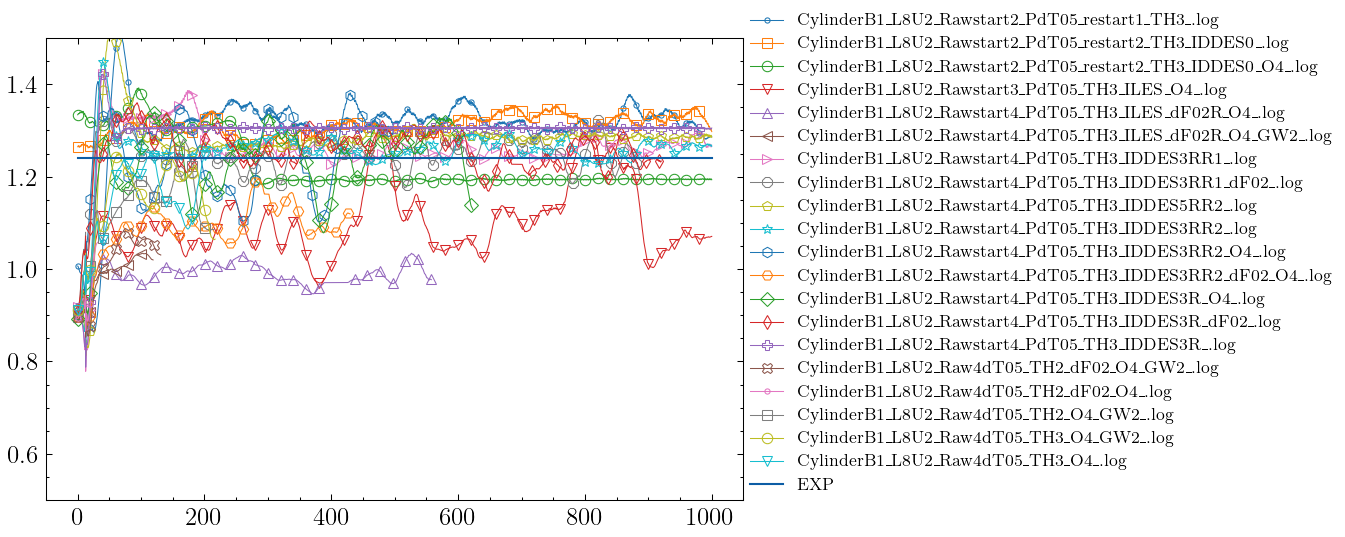
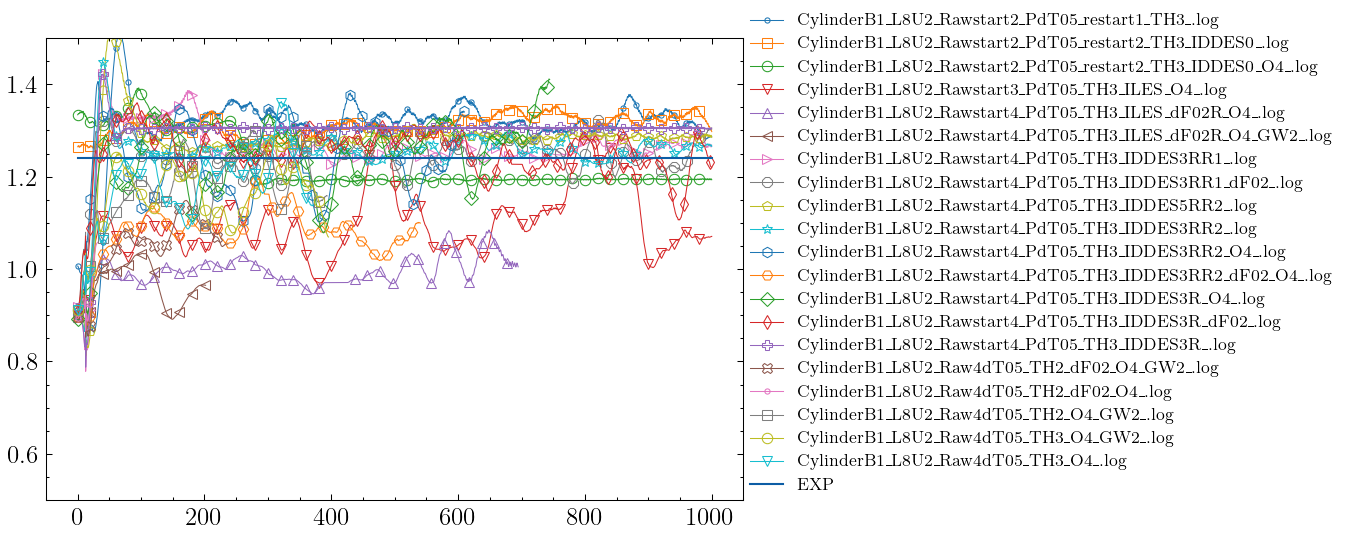
update some DES figs

diff --git a/DNDSR/DESTests/index.md b/DNDSR/DESTests/index.md
@@ -364,22 +364,22 @@ with $C_{dF}=0.2$.
 | CylinderB1_L8U2_Rawstart2_PdT05_restart2_TH3_IDDES0_.log    | 1.3309e+00 | 909.3   | 18000 |
 | CylinderB1_L8U2_Rawstart2_PdT05_restart2_TH3_IDDES0_O4_.log | 1.1945e+00 | -454.6  | 18000 |
 | CylinderB1_L8U2_Rawstart3_PdT05_TH3_ILES_O4_.log            | 1.0525e+00 | -1874.7 | 18000 |
-| CylinderB1_L8U2_Rawstart4_PdT05_TH3_ILES_dF02R_O4_.log      | 9.9719e-01 | -2428.1 | 8415  |
-| CylinderB1_L8U2_Rawstart4_PdT05_TH3_ILES_dF02R_O4_GW2_.log  | 1.0066e+00 | -2334.1 | 378   |
+| CylinderB1_L8U2_Rawstart4_PdT05_TH3_ILES_dF02R_O4_.log      | 1.0250e+00 | -2149.7 | 11155 |
+| CylinderB1_L8U2_Rawstart4_PdT05_TH3_ILES_dF02R_O4_GW2_.log  | 9.5064e-01 | -2893.6 | 2036  |
 | CylinderB1_L8U2_Rawstart4_PdT05_TH3_IDDES3RR1_.log          | 1.2726e+00 | 326.0   | 18000 |
-| CylinderB1_L8U2_Rawstart4_PdT05_TH3_IDDES3RR1_dF02_.log     | 1.2547e+00 | 147.3   | 15350 |
+| CylinderB1_L8U2_Rawstart4_PdT05_TH3_IDDES3RR1_dF02_.log     | 1.2477e+00 | 77.4    | 17586 |
 | CylinderB1_L8U2_Rawstart4_PdT05_TH3_IDDES5RR2_.log          | 1.2855e+00 | 455.0   | 18000 |
 | CylinderB1_L8U2_Rawstart4_PdT05_TH3_IDDES3RR2_.log          | 1.2654e+00 | 253.9   | 18000 |
-| CylinderB1_L8U2_Rawstart4_PdT05_TH3_IDDES3RR2_O4_.log       | 1.3182e+00 | 782.2   | 7857  |
-| CylinderB1_L8U2_Rawstart4_PdT05_TH3_IDDES3RR2_dF02_O4_.log  | 1.1033e+00 | -1367.5 | 6451  |
-| CylinderB1_L8U2_Rawstart4_PdT05_TH3_IDDES3R_O4_.log         | 1.2738e+00 | 337.8   | 10467 |
-| CylinderB1_L8U2_Rawstart4_PdT05_TH3_IDDES3R_dF02_.log       | 1.2394e+00 | -5.6    | 16078 |
+| CylinderB1_L8U2_Rawstart4_PdT05_TH3_IDDES3RR2_O4_.log       | 1.2246e+00 | -153.6  | 10024 |
+| CylinderB1_L8U2_Rawstart4_PdT05_TH3_IDDES3RR2_dF02_O4_.log  | 1.0547e+00 | -1852.6 | 8669  |
+| CylinderB1_L8U2_Rawstart4_PdT05_TH3_IDDES3R_O4_.log         | 1.3132e+00 | 732.3   | 12888 |
+| CylinderB1_L8U2_Rawstart4_PdT05_TH3_IDDES3R_dF02_.log       | 1.2136e+00 | -264.4  | 17670 |
 | CylinderB1_L8U2_Rawstart4_PdT05_TH3_IDDES3R_.log            | 1.3048e+00 | 648.1   | 18000 |
-| CylinderB1_L8U2_Raw4dT05_TH2_dF02_O4_GW2_.log               | 1.0471e+00 | -1928.9 | 622   |
+| CylinderB1_L8U2_Raw4dT05_TH2_dF02_O4_GW2_.log               | 1.0958e+00 | -1441.8 | 2739  |
 | CylinderB1_L8U2_Raw4dT05_TH2_dF02_O4_.log                   | 9.4938e-01 | -2906.2 | 0     |
-| CylinderB1_L8U2_Raw4dT05_TH2_O4_GW2_.log                    | 1.1679e+00 | -720.6  | 2298  |
-| CylinderB1_L8U2_Raw4dT05_TH3_O4_GW2_.log                    | 1.1804e+00 | -596.4  | 2335  |
-| CylinderB1_L8U2_Raw4dT05_TH3_O4_.log                        | 1.1722e+00 | -677.7  | 2073  |
+| CylinderB1_L8U2_Raw4dT05_TH2_O4_GW2_.log                    | 1.1956e+00 | -444.1  | 5869  |
+| CylinderB1_L8U2_Raw4dT05_TH3_O4_GW2_.log                    | 1.1986e+00 | -414.0  | 5913  |
+| CylinderB1_L8U2_Raw4dT05_TH3_O4_.log                        | 1.2324e+00 | -76.4   | 5443  |
 
 ![Drag Coefficients, filter window 500 (25 time units)](drags_All.png)
 
@@ -392,3 +392,5 @@ with $C_{dF}=0.2$.
 ![Drag Coefficients, filter window 100 (5 time units)](drags_DESs.png)
 
 ![Drag Coefficients, filter window 100 (5 time units)](drags_DESs_O4.png)
+
+![Drag Coefficients, filter window 100 (5 time units)](drags_DESs_O4_new.png)
